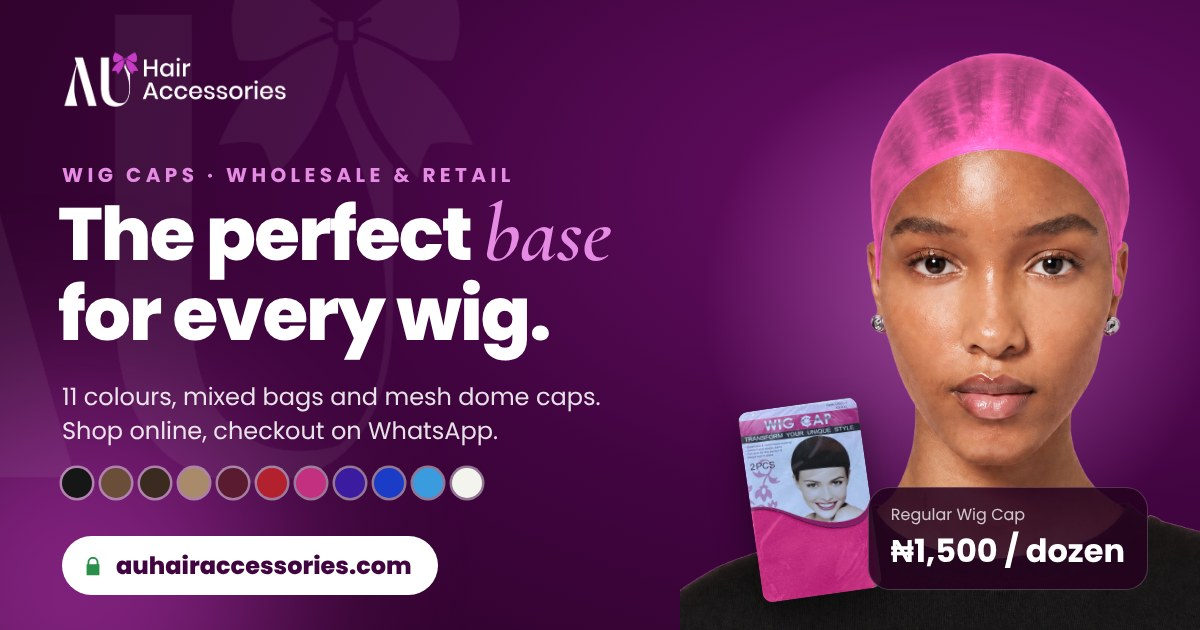
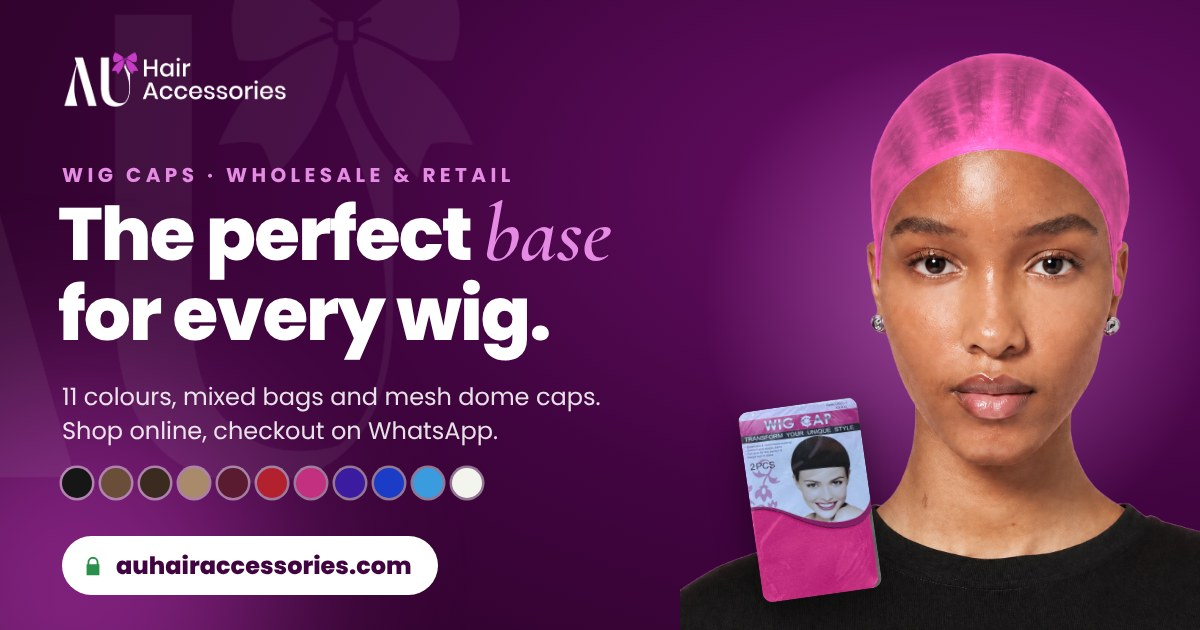
Remove prices from link preview
Claude-Session: https://claude.ai/code/session_01JbFAA11SwcXL2BGiK1uMsA

Changed region(s): [[0.7092, 0.754, 0.9558, 0.9349]]

diff --git a/public/index.html b/public/index.html
@@ -10,18 +10,18 @@
 <meta property="og:type" content="website">
 <meta property="og:site_name" content="AU Hair Accessories">
 <meta property="og:title" content="AU Hair Accessories · Wig caps in 11 colours">
-<meta property="og:description" content="Regular wig caps from ₦1,500 a dozen, mixed colour bags and mesh dome caps. Shop online, checkout on WhatsApp. Trade Fair, Lagos.">
+<meta property="og:description" content="Regular wig caps in 11 colours, mixed colour bags and mesh dome caps. Shop online, checkout on WhatsApp. Trade Fair, Lagos.">
 <meta property="og:url" content="https://auhairaccessories.com/">
-<meta property="og:image" content="https://auhairaccessories.com/og.jpg">
-<meta property="og:image:secure_url" content="https://auhairaccessories.com/og.jpg">
+<meta property="og:image" content="https://auhairaccessories.com/og.jpg?v=2">
+<meta property="og:image:secure_url" content="https://auhairaccessories.com/og.jpg?v=2">
 <meta property="og:image:type" content="image/jpeg">
 <meta property="og:image:width" content="1200">
 <meta property="og:image:height" content="630">
-<meta property="og:image:alt" content="AU Hair Accessories: the perfect base for every wig. Wig caps in 11 colours, from ₦1,500 a dozen.">
+<meta property="og:image:alt" content="AU Hair Accessories: the perfect base for every wig. Wig caps in 11 colours.">
 <meta name="twitter:card" content="summary_large_image">
 <meta name="twitter:title" content="AU Hair Accessories · Wig caps in 11 colours">
-<meta name="twitter:description" content="Regular wig caps from ₦1,500 a dozen, mixed colour bags and mesh dome caps. Shop online, checkout on WhatsApp.">
-<meta name="twitter:image" content="https://auhairaccessories.com/og.jpg">
+<meta name="twitter:description" content="Regular wig caps in 11 colours, mixed colour bags and mesh dome caps. Shop online, checkout on WhatsApp.">
+<meta name="twitter:image" content="https://auhairaccessories.com/og.jpg?v=2">
 <link rel="canonical" href="https://auhairaccessories.com/">
 
 <style>html,body{margin:0}.demo{display:none!important}</style>
